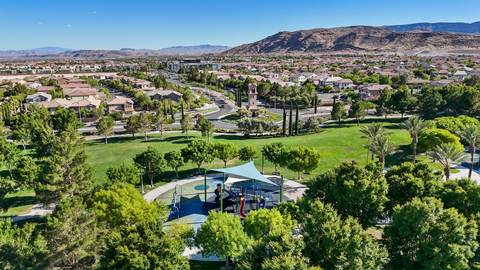
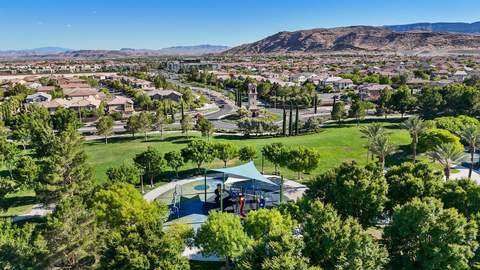
Tighten hero LCP bytes and fix lint blockers
Further compress 480/828 WebP variants and resolve prefer-const /
unused eslint-disable so production build passes.

Changed region(s): [[0.9062, 0.6519, 0.9375, 0.6815], [0.5938, 0.9185, 0.625, 0.9481], [0.3125, 0.4741, 0.3438, 0.5037]]

diff --git a/src/components/analytics/deferred-analytics.tsx b/src/components/analytics/deferred-analytics.tsx
@@ -26,7 +26,7 @@ export default function DeferredAnalytics({
 }: DeferredAnalyticsProps) {
   useEffect(() => {
     let loaded = false;
-    let timeoutId: number | undefined;
+    const timeoutIds: number[] = [];
 
     const loadGa = () => {
       if (!gaMeasurementId || document.getElementById('ga-gtag')) {
@@ -130,8 +130,8 @@ export default function DeferredAnalytics({
       for (const event of INTERACTION_EVENTS) {
         window.removeEventListener(event, loadAll, true);
       }
-      if (timeoutId !== undefined) {
-        window.clearTimeout(timeoutId);
+      for (const id of timeoutIds) {
+        window.clearTimeout(id);
       }
     };
 
@@ -144,7 +144,7 @@ export default function DeferredAnalytics({
     }
 
     // Fallback so analytics still fires without interaction (after lab window).
-    timeoutId = window.setTimeout(loadAll, 8000);
+    timeoutIds.push(window.setTimeout(loadAll, 8000));
 
     return cleanup;
   }, [facebookPixelId, gaMeasurementId, gtmId]);

diff --git a/src/components/sections/hero.tsx b/src/components/sections/hero.tsx
@@ -16,7 +16,6 @@ export default function Hero() {
             srcSet={HERO_WEBP_SRCSET}
             sizes='100vw'
           />
-          {/* eslint-disable-next-line @next/next/no-img-element */}
           <img
             src='/hero-craig-ranch-828.jpg'
             srcSet={HERO_JPG_SRCSET}
